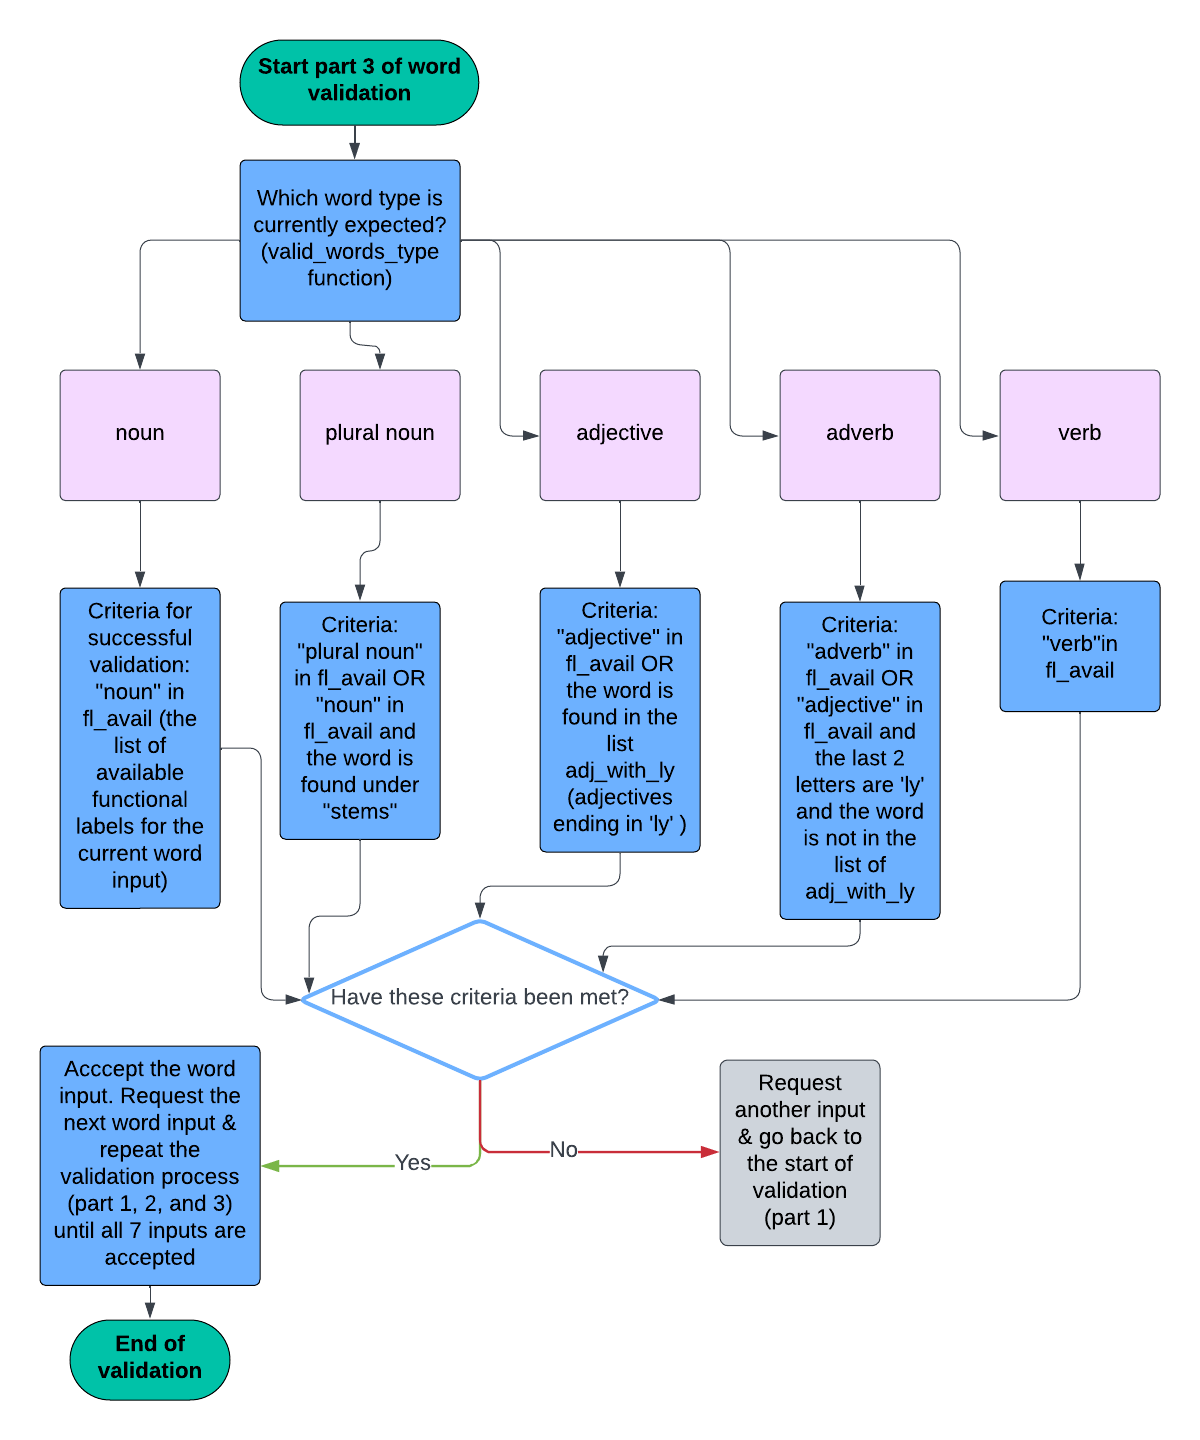
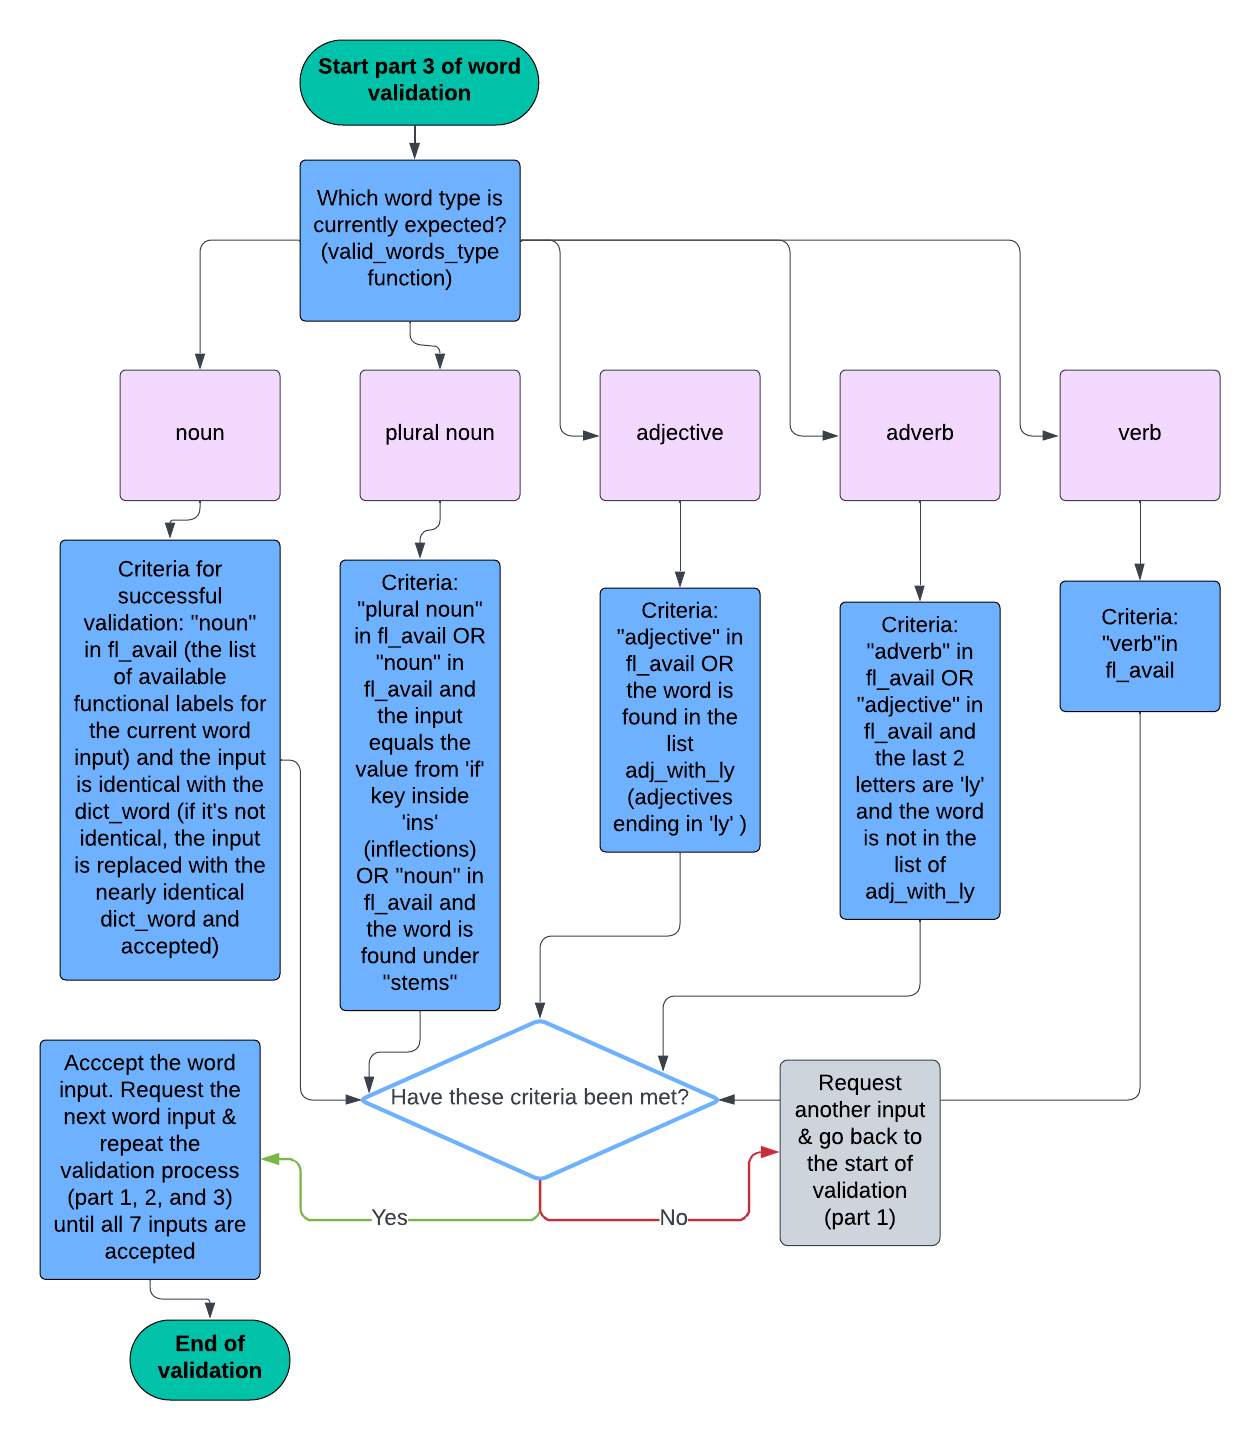
Update README (mainly validation process for nouns & plural nouns)

diff --git a/README.md b/README.md
@@ -137,7 +137,8 @@ Since getting 7 valid word inputs from the user (2 nouns, 1 plural noun, 2 adjec
 
 #### Word input validation - part 1
   
-- Request a word input from the user, specifying which grammatical type is needed (e.g. a noun). 
+- Request a word input from the user, specifying which grammatical type is needed (e.g. a noun).
+- When getting input for noun2 or adj2, make sure the user is submitting a new word (noun2 cannot be the same as noun1, and adj2 cannot be the same as adj1). If the user tries to submit the same noun or adjective twice, inform them that they have already used that word and request a different input (function exclude_repetitions).
 - Make sure the input is not a number (integer) using the function exclude_numbers.
  - If the input is a number: inform the user that numbers are not allowed and request another input instead, adding examples of the required word type for clarity. Restart the valiation process.
  - If the input is not a number, simply move on to the next step.
@@ -167,8 +168,8 @@ Since getting 7 valid word inputs from the user (2 nouns, 1 plural noun, 2 adjec
 
 - This is the last part of the word validation process, and it is being taken care of by the function valid_words_type, nested inside validate_word, which is nested inside the look_up_word function. 
 - Once the list fl_avail contains a value or multiple values (like "noun", "adjective" etc.) after going through the validate_word function, check whether the 'fl' value for the current word is correct for the expected word type. If needed, other criteria might need to be met, too. Each word type has its own set of criteria.
-- __Nouns__ simply need the value "noun" in fl_avail to be accepted. If this value is not present, the user is informed that their word is not a noun, and a new input is requested. The message includes examples of the expected word type. Once a new input is obtained, the entire validation process is restarted for the new word input.
-- __Plural nouns__ are accepted if the value "plural noun" is found within fl_avail (for nouns with irregular plural form), or if the value "noun" is found in fl_avail and the submitted word was found under the key 'stems' in the dictionary (which lists all the entry's headwords, variants, inflections... including its plural form). 
+- __Nouns__ need the value "noun" in fl_avail in order to be accepted, paired with the fact the the user's input is identical with the dictionary entry being looked up. This ensures that no plural nouns with regular plural form (e.g. "dog" - "dogs") get accepted instead of their singular form. If this last condition is not met (e.g. the user submitted the word "cats"), the user is notified in the terminal that their word is slightly different from a specific valid option, and their input is automatically replaced by that valid word (e.g. "cat"). If the value "noun" is not present, the user is informed that their word is not a noun, and a new input is requested. The message includes examples of the expected word type. Once a new input is obtained, the entire validation process is restarted for the new word input.
+- __Plural nouns__ are accepted if the value "plural noun" is found within fl_avail, which works well for nouns with irregular plural form. Another acceptable option is if the value "noun" is present within fl_avail and the entry's key 'ins' (inflections) can be accessed (not all noun entries have that key), and the word input is identical with the value related to the nested key 'if' (for words with more than one syllable, asterisks * are present inside that value to mark the division into syllables, so these had to be removed first). Should that last criterium not be met, the user is informed that their word seems to be a singular rather than plural form of a noun and is asked for another input. One last acceptable option is if the value "noun" is found in fl_avail and the submitted word was found under the key 'stems' in the dictionary (which lists all the entry's headwords, variants, inflections... including its plural form). If neither of these options applies, the user is informed that their word is not a plural noun, and is requested to submit another word input.
 - __Adjectives__ are acceped if the value "adjective" is found in fl_avail, as long as the word does not end in 'LY'. Otherwise, if an adjective ends in 'LY', an additional criterium must be met: the adjective needs to be found in the list adj_with_ly. This additional requirement resulted from the realization that while many adverbs end in 'LY' (basically, one can create an adverb by adding the suffix -ly to an adjective, e.g. "glad" - "gladly"), there are also multiple adjectives with this ending, and this additional criterium helps to avoid inaccurate classification. If these criteria are not met, the user is informed that their word is not an adjective, and is requested to submit another input (examples are given in order to make it clear and simple). The validation process starts from the beginning for that new input.
 - __Adverbs__ are accepted if the value "adverb" is present in fl_avail. Since some adverbs that are derived from adjectives do not have separate entries in the dictionary, another option is to have the value "adjective" in fl_avail if the word ends in 'LY', and it is not found in the list of adj_with_ly. (SCREEENSHOT) If these criteria are not met, the user is informed that their word is not an adverb, and is requested to submit another input (examples of the expected word type are given for more clarity). The validation process starts from the beginning for that new input.
 - __Verbs__ simply need the value "verb" in fl_avail to be accepted. If this value is not present, the user is informed that their word is not a verb, and is requested to submit another input (again, word examples are given). The validation process starts from the beginning for that new input.
@@ -189,10 +190,10 @@ Whenever the user decides to end the game, a thank you message is printed to the
 #### The use of classes
   
 In order to not only deepen my understanding of Python classes, but also to keep the number of variables with global scope to a minimum, I decided to create two classes for this program. 
-  - __Class Words__ is initiated with 3 instance variables: input, word_type, and examples. There are 7 instances of that class, one for each required word input. While the value of the variable "input" will be replaced by user's word input, the other two variables stay unchanged and are used during the word validation process (e.g. in printed statements).
-  - __Class Story__ is initiated with 2 instance variables: title and text. There are 8 instances of that class, one for each mad lib. 
+  - __Class Words__ is initiated with 3 instance variables: input, word_type, and examples. There are 7 instances of that class, one for each required word input. While the value of the variable "input" will be replaced by user's word input, the other two variables stay unchanged and are used during the word validation process (e.g. in printed statements, to signal to the user which word type is expected and to give examples of that word type).
+  - __Class Story__ is initiated with 2 instance variables: title and text. There are 8 instances of that class, one for each mad lib. A mad lib is chosen randomly each time the user submits 7 acceptable word inputs.  
 
-The use of these two classes allows for adding further word inputs and stories in a simple way and makes the code easily readable. 
+The use of these two classes allows for adding further word inputs and stories in a simple way and makes the code easily readable. It also contributes to the ease of passing around the data from each class, encouraging further development of this application. 
 
 
 ### The Surface Plane
@@ -268,10 +269,8 @@ Since the application runs in a terminal and the Code Institute's template clear
 
 ## Future Enhancements
 
-- An additional check could be added to prevent the user from submitting the same word more than once during a game.
-- For a more thorough search for the 'fl' key (functional label of a word, like "noun" or "adverb") in homographs, another if statement could be added inside the validate_word function to check another one or two possible 'fl' values. At the moment, up to 3 different 'fl' values are being imported from the dictionary for each word with multiple meanings and functions.
-- A more accurate process for validating plural and singular nouns would be helpful in supporting the educational aspect of the game. Nouns with irregular plural form are always validated correctly. However, ensuring that nouns with a regular plural form (e.g. "dog" - "dogs") are correctly classified as singular or plural is more challenging as there are multiple rules regarding how to create a plural noun, depending on its singular counterpart's ending, for example, or other aspects. The online dictionary does not seem to offer a way of making that distinction unambiguously. While there is a key containing inflections ('ins') with a nested key 'if' and its value being a fully spelled-out inflection, this particular value contains additionally an asterisk (*) if the word has more than one syllable. Therefore, a simple comparison of the submitted word to this value does not suffice to provide accurate validation and a more refined solution would need to be applied.
 - More stories could be added as further instances of the class Story to provide a wider range of topics and to keep users entertained for longer, also encouraging them to return to the application multiple times.
+- Further word inputs could be added (e.g. for longer stories) that either use the existing validation process or extend it if needed. 
 
 
 ## Testing
@@ -296,26 +295,26 @@ There are no notable bugs within the project. While I did encounter a few stubbo
 Several built-in Python libraries have been used in this project.
 
 #### os
-This library allowed me to clear the terminal (os.system and os.name) as well as restart the program (os.execl). Thanks to these functionalities the application is clearer and visually more pleasing to the user, and the game can be restarted from scratch without the user having to click the "Run program" again.
+This library allowed me to clear the terminal (os.system and os.name) as well as restart the program (os.execl). Thanks to these functionalities the application is clearer and visually more pleasing to the user, and the game can be restarted from scratch without the user having to click the "Run program" button again.
 
 #### sys
-This module was needed for the restart_program function (sys.executable) that allows the user to play the game multiple times with new inputs.
+This module was needed for the restart_program function (sys.executable) that allows the user to play the game multiple times with new inputs, without having to select the "Run program" button, thus being more user-friendly and supporting easeful interaction with the program.
 
 #### time
-This library was imported to utilize the time.sleep functionality needed after receiving the last valid word input, so that the user can see for a moment that the word they submitted has been accepted. After this delay of 1.5 seconds the terminal is cleared and a story with their inputs is printed to the terminal.
+This library was imported to utilize the time.sleep functionality needed after receiving the last valid word input, so that the user can see that the last word they submitted (verb) has been accepted. After this delay of 1.5 seconds the terminal is cleared and a story with the user's inputs is printed to the terminal. This reduces the need for unnecessary interactions or additional inputs from the user and therefore makes the game run more smoothly, providing optimal user experience.
 
 #### random
-This library allows for a random choice of a mad lib title and a matching text from the available ones, listed under available_titles and available_texts. If the user decides to play again while re-using their word inputs, these two variables (lists) get updated and another story can be chosen randomly from the updated range.
+This library allows for a random choice of a mad lib title and a matching text from the available ones, listed under available_titles and available_texts, adding to the element of surprise to the game. If the user decides to play again while re-using their word inputs, these two variables (available_titles and available_texts) get updated in order to avoid repetition, and another story can be chosen randomly from the updated range. Therefore, this library contributes in a significant way to supporting the fun/entertainment aspect of the application.
 
 #### requests
-This module (specifically the requests.get functionality) makes it possible to work with the dictionary API in the word input validation process by allowing to send HTTP requests to a specified URL. 
+This module (specifically the requests.get functionality) makes it possible to work with the dictionary API in the word input validation process by allowing to send HTTP requests to a specified URL. The dictionary API plays a vital role when checking the grammatical type of each submitted word, contributing to the educational aspect of the game.
 
 #### dotenv
-This library was used to load one specific environment variable - the API key - from the .env file, making it easy and convenient to manage sensitive information.
+This library was used to load one specific environment variable - the dictionary API key - from the .env file, making it easy and convenient to manage and protect this sensitive information, therefore protecting the integrity and security of the entire program. 
 
-An additional library was used for styling text in the terminal.
+An additional library was used for styling the text in the terminal.
 #### Rich
-This library allowed me to print rich text to the terminal, adding automatic justification to the left that prevents the occurrence of awkward word splits in longer texts. It also gave me the option of using colors in order to keep the terminal visually interesting and to send clear signals to the user (contrasting colors to signify that an input has been accepted or rejected etc.).
+This library allowed me to print rich text to the terminal, adding automatic justification to the left that prevents the occurrence of awkward word splits in longer texts. It also gave me the option of using colors in order to keep the terminal visually interesting, and to send clear signals to the user (contrasting colors to signify that an input has been accepted - sea green - or rejected - orange).
 
 
 ## Deployment
